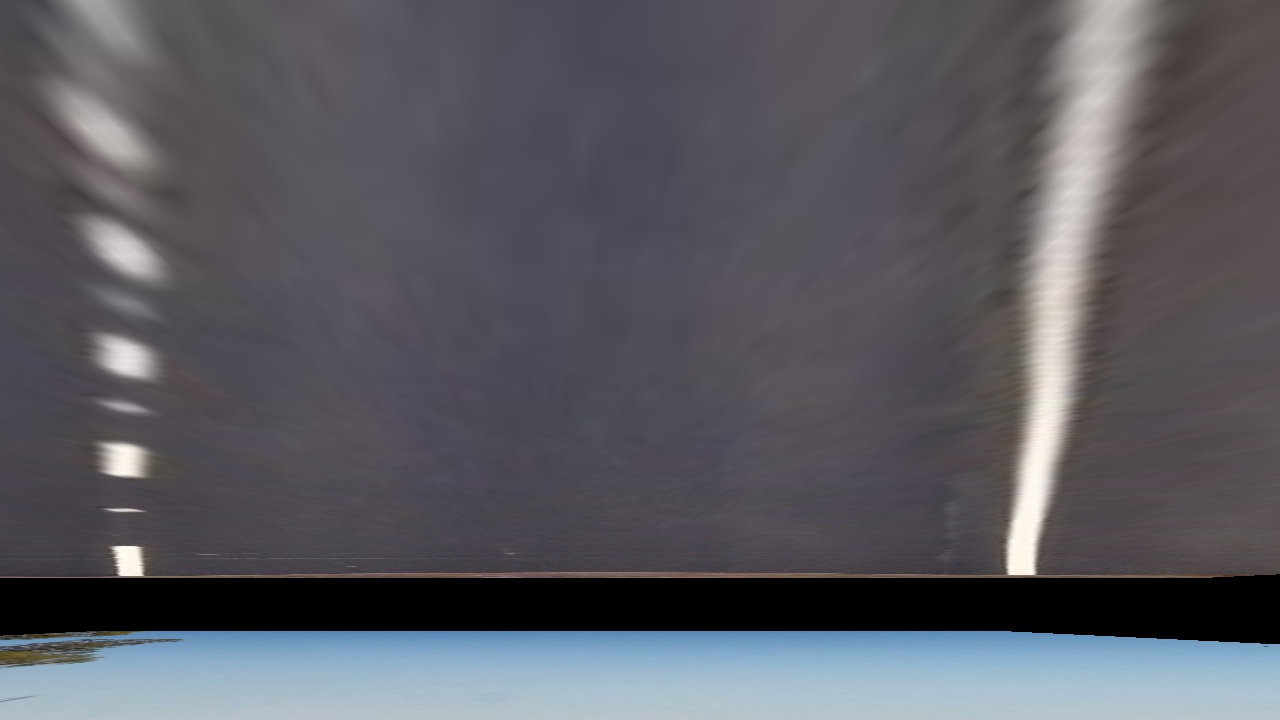
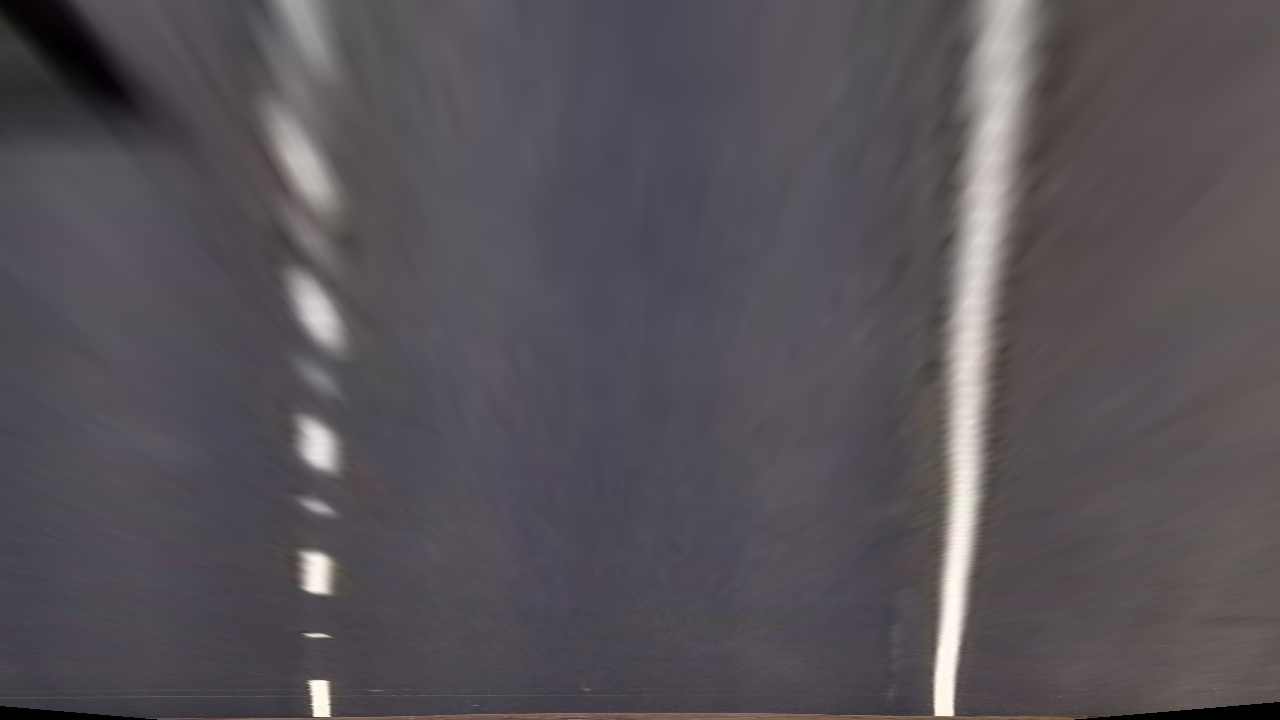
perspective transformation

diff --git a/src/calibration.py b/src/calibration.py
@@ -78,7 +78,7 @@ def corners_unwarp(img, nx, ny, mtx, dist):
         # Choose offset from image corners to plot detected corners
         # This should be chosen to present the result at the proper aspect ratio
         # My choice of 100 pixels is not exact, but close enough for our purpose here
-        offset = 20  # offset for dst points
+        offset = 100  # offset for dst points
         # Grab the image shape
         img_size = (gray.shape[1], gray.shape[0])
 
@@ -125,34 +125,18 @@ def lines_unwarp(img, mtx, dist):
 
     src = np.float32([a, b, c, d])
 
-    widthA = np.sqrt(((c[0] - d[0]) ** 2) + ((c[1] - d[1]) ** 2))
-    widthB = np.sqrt(((a[0] - b[0]) ** 2) + ((a[1] - b[1]) ** 2))
-    maxWidth = max(int(widthA), int(widthB))
-
-    heightA = np.sqrt(((b[0] - c[0]) ** 2) + ((b[1] - c[1]) ** 2))
-    heightB = np.sqrt(((a[0] - d[0]) ** 2) + ((a[1] - d[1]) ** 2))
-    maxHeight = max(int(heightA), int(heightB))
-
     # For destination points, I'm arbitrarily choosing some points to be
     # a nice fit for displaying our warped result
     # again, not exact, but close enough for our purposes
-    width = 640
-    # = 320
-    # dst = np.float32([[x_start, 720], [x_start+width, 720],
-    #                   [x_start+width, 200], [x_start, 200]])
-    # dst = np.float32([[offset, offset], [img_size[0]-offset, offset],
-    #                   [img_size[0]-offset, img_size[1]-offset],
-    #                   [offset, img_size[1]-offset]])
-    # Given src and dst points, calculate the perspective transform matrix
-    print(maxWidth, maxHeight)
-    offset = 100
-    width = maxWidth
-    height = maxHeight
+
+    offset = 300
+    width = 650
     dst = np.float32([
         [offset, 0],
-        [width + offset, 0],
-        [offset, height],
-        [width + offset, height]])
+        [offset+width, 0],
+        [offset, 720],
+        [offset+width, 720]])
+
 
     print(src)
     print(dst)
